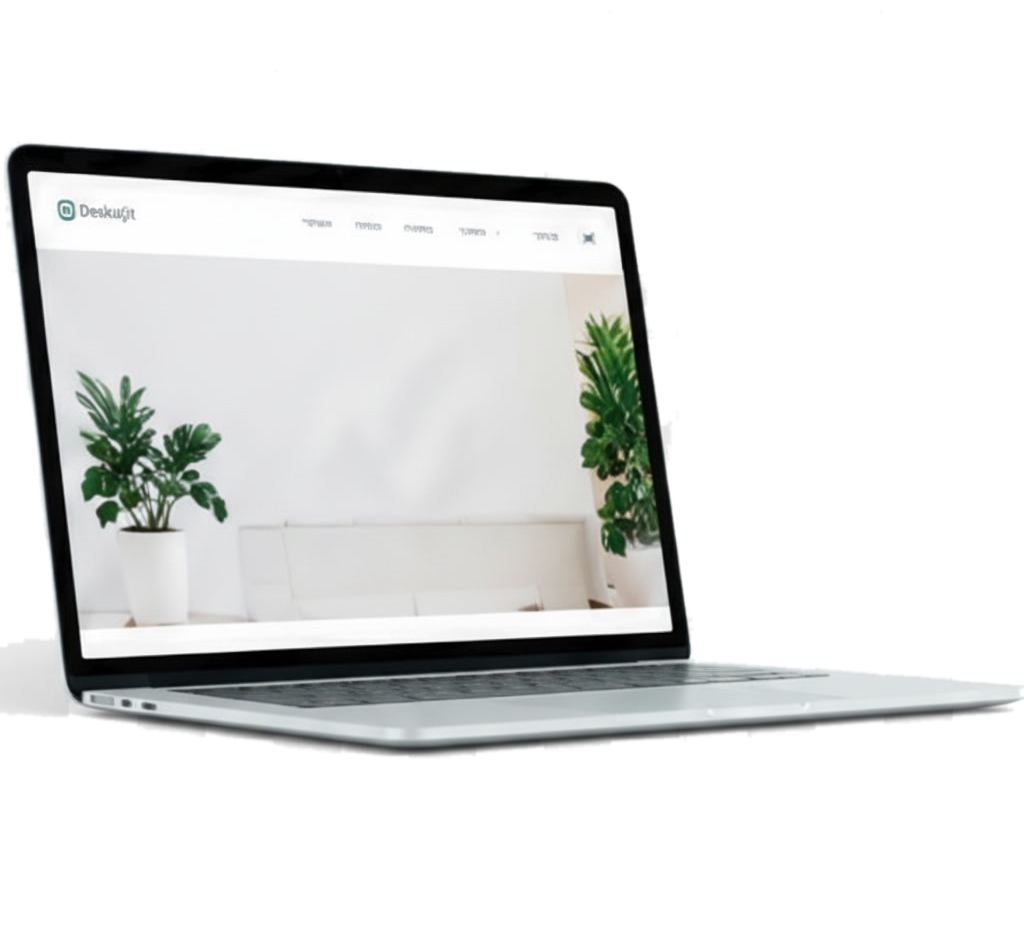
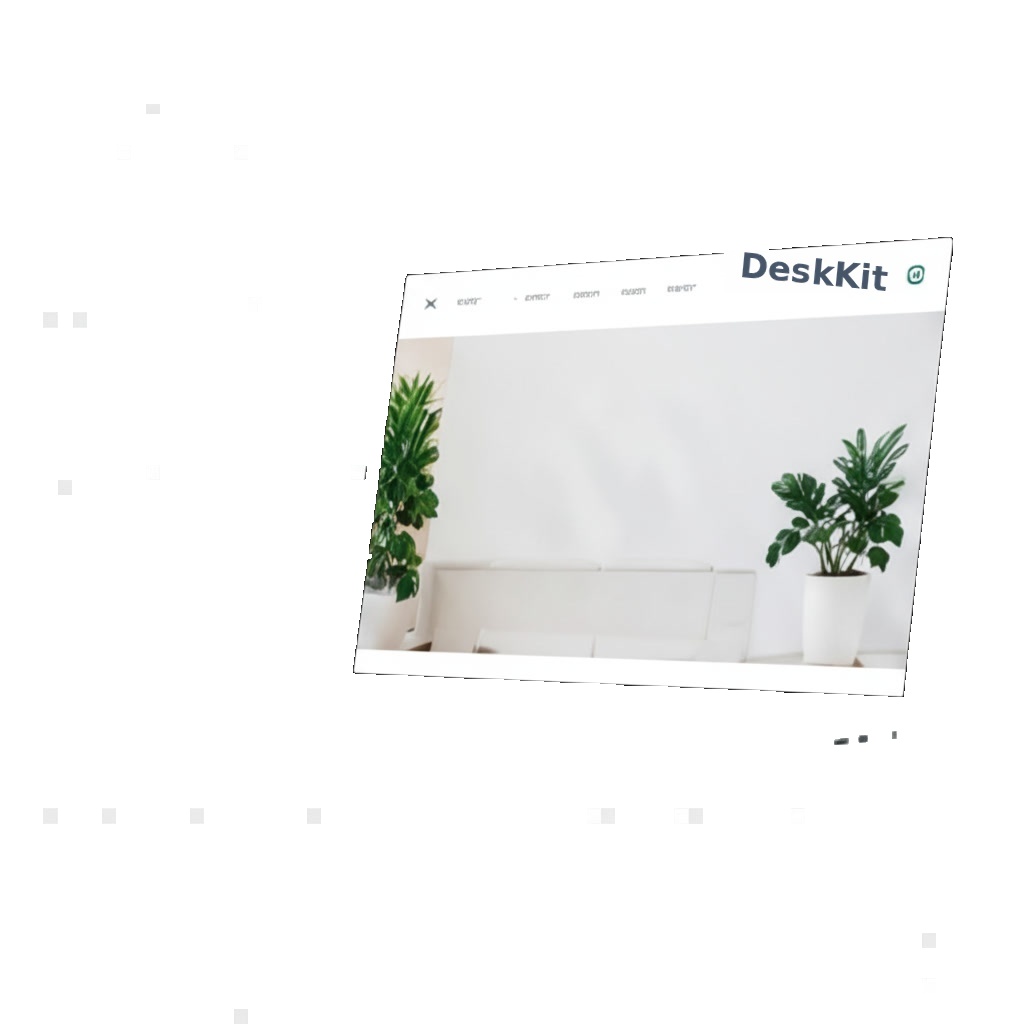
Fix hero laptop overlapping lead text; swap in corrected mockup photos
The laptop mockup in the home hero collided with the lead paragraph/CTA
at normal and narrow desktop widths (confirmed live via screenshot) —
the margin-top/shift values were hand-tuned for the old photo and never
retuned when replaced. Reset to a conservative baseline and verified
clean at 390–1920px in both languages.

Also swaps in two new mockup photos (a real mirror pair: one flipped
from the other, not independent renders) replacing the single shared
photo used for both languages before. Both the old photo and the new
supplied ones had an AI-generated logo typo baked into the screenshot
("Deskujit") — patched out and redrawn as "DeskKit" directly on the
photo pixels. Recomputed each photo's own screen-quad perspective
transform (OpenCV) for the text/CTA overlay that sits inside the glass.

Fixed a real cascade bug hit while wiring the two images: the per-
language display:none/block toggle rule sat BEFORE the shared
.dk-home-hero-laptop-img{display:block} rule, so the later rule won
(same specificity) and both images stayed visible/stacked, doubling the
hero section's height. Reordered so the toggle rule comes last.

Claude-Session: https://claude.ai/code/session_018AnmN4AoUhjrzwgf1WfAo4

diff --git a/css/deskkit-ui.css b/css/deskkit-ui.css
@@ -403,7 +403,7 @@ body.dk-home { background: var(--bg-main); }
    continuous formula covers both regimes, no separate breakpoint
    value needed (replacing the old 860px-breakpoint override below). */
 .dk-home-hero-visual {
-  width: 100%; max-width: 640px; margin-top: var(--dk-hero-margin-top, -250px); position: relative;
+  width: 100%; max-width: 640px; margin-top: var(--dk-hero-margin-top, -80px); position: relative;
   /* translateX is always a PHYSICAL shift (never direction-aware on its
      own) — confirmed-live bug this caused: toggling to English flips
      the page to dir="ltr", which also flips which physical edge this
@@ -420,53 +420,27 @@ body.dk-home { background: var(--bg-main); }
   container-type: inline-size;
 }
 /* LTR needs its own tuning, not just the RTL numbers with the sign
-   flipped — the laptop photo itself is a real photograph, not a
-   mirror-symmetric graphic, so its own opaque silhouette (the dark
-   lid/bezel) sits in a DIFFERENT place relative to the text once the
-   whole composition flips. In RTL, the horizontal shift happens to
-   carry that opaque area away from where the text sits; in LTR the
-   same shift (even sign-flipped) carried it UNDER the text instead —
-   confirmed live as the laptop visibly covering the CTA button and
-   watch-link text, not just a boxes-overlap technicality. Verified by
-   directly measuring the text block's own real height in English
-   (longer line-wrapping than Hebrew) and solving for a margin-top that
-   clears it, then increasing the horizontal cap so the image also
-   moves further past the text block's own right edge — together, not
-   either alone (checked: horizontal distance alone can't clear the
-   opaque corner within the tools-sidebar-safe shift budget, and
-   vertical clearance alone would undo nearly all of the intentional
-   "tucked under the text" composition, since this box's natural,
-   margin-top:0 position already starts flush at the text's own bottom
-   edge with zero built-in gap in EITHER direction — RTL's working
-   look was never from spare room, only from where the shift happened
-   to land on the photo). */
-/* Both --dk-hero-margin-top and --dk-hero-shift above were fixed
-   numbers (-150px / 260px) tuned only for wide desktop, where
-   --dk-hero-shift is already pinned at its cap. Confirmed-live bug this
-   caused: at in-between widths (~900-1250px, a completely normal laptop
-   screen, not a breakpoint edge case) the clamp() hasn't reached that
-   cap yet, so the horizontal shift is smaller — but the vertical pull
-   was still the full fixed -150px regardless, so the laptop's opaque
-   lid sat UNDER "Watch how it works" with no horizontal clearance to
-   carry it away. Fix: margin-top now scales down together with the
-   SAME (100cqw - 656px) term the shift itself uses, so it only reaches
-   its full -150px tuck once the shift has actually reached a cap worth
-   tucking under, and sits flush (0 overlap) at the narrow end where
-   there's no horizontal clearance yet — same formula family, kept in
-   sync by construction instead of as two numbers that can drift apart.
-   -0.559 = -190px / 340px (this rule's own cap/pull pair, below), so
-   both reach their max together at the same cqw. Cap raised again
-   (300->340px, shift further right toward the tools column) and the
-   max vertical pull raised too (-150->-190px, tucks the photo higher)
-   per repeated "move it right toward the tools buttons, raise it
-   higher, there's still room" reports — reverified at 1024-1920px
-   that this neither collides with the tools column (checked each
-   width's own gap to .dk-home-hero-tools) nor gets clipped by this
-   section's own overflow:hidden bottom edge (checked each width's own
-   image-bottom vs hero-bottom). */
+   flipped — the laptop photo itself is a real photograph (a mirror PAIR
+   of two files, not one mirror-symmetric graphic — see index.html's own
+   comment), so the two photos' opaque silhouettes sit in different
+   places relative to the text once the composition flips.
+
+   2026-10-07: both this rule and the RTL default above were reset to a
+   conservative, mostly-untucked baseline (small/no negative margin-top)
+   after a confirmed-live report that the previous hand-tuned values
+   (carried over from the OLD laptop photo, before it was replaced) made
+   the laptop visibly cover the lead paragraph text. The old photo's
+   geometry no longer applies to these new photos, so retuning from
+   scratch — a flush, slightly-overlapping-at-most start — was safer
+   than reusing a large negative pull untested against the new images.
+   If there's visibly too much empty space between the text block and
+   the laptop at a given width, increase the magnitude of
+   --dk-hero-margin-top (more negative) and re-verify there's no
+   collision with the lead paragraph/CTA at any width from ~680px to
+   ~1920px before shipping a larger pull. */
 html[dir="ltr"] .dk-home-hero-visual {
-  --dk-hero-margin-top: clamp(-280px, calc(-0.823 * (100cqw - 656px)), 0px);
-  --dk-hero-shift-cap: 380px;
+  --dk-hero-margin-top: clamp(-60px, calc(-0.2 * (100cqw - 656px)), 0px);
+  --dk-hero-shift-cap: 200px;
   transform: translateX(var(--dk-hero-shift));
 }
 .dk-home-hero-laptop-img {
@@ -480,6 +454,19 @@ html[dir="ltr"] .dk-home-hero-visual {
      <img>, not the link. */
   pointer-events: none;
 }
+/* The two mockup photos (real mirror pair, see index.html's own comment
+   on the two <img> tags) occupy the same box; CSS picks which one is in
+   flow by html[dir], the same pattern the rest of this page already
+   uses for bilingual content. Only one is ever display:block, so this
+   box's own height always comes from exactly one photo, never both
+   stacking. Placed after the shared .dk-home-hero-laptop-img rule above
+   (same specificity, source order decides) — confirmed-live bug when
+   this sat BEFORE it instead: that rule's own display:block, applying
+   to both images via their shared class, won the cascade and kept the
+   "wrong" language's photo visible too, doubling this box's height. */
+.dk-home-hero-laptop-img-ltr { display: none; }
+html[dir="ltr"] .dk-home-hero-laptop-img-ltr { display: block; }
+html[dir="ltr"] .dk-home-hero-laptop-img-rtl { display: none; }
 /* Sits inside the laptop photo's own screen glass, warped to the
    screen's real tilted plane instead of just rotated flat — a flat
    rotate() stood the text "upright" while the screen itself recedes
@@ -488,14 +475,17 @@ html[dir="ltr"] .dk-home-hero-visual {
    it. Fixed with a true perspective (homography) transform: this box
    is laid out as a normal flat 480x380 design canvas, then
    matrix3d() warps its 4 corners onto the screen's real 4 corners —
-   computed via cv2.getPerspectiveTransform from the screen quad found
-   by OpenCV contour detection on the source PNG (corners roughly
-   (26,173)/(613,206)/(672,631)/(83,659) in the 1024x946 image, shrunk
-   14% inward for bezel margin). matrix3d's translate components are
-   always real pixels in the element's own box, never %, so they're
-   only correct at the image's native 1024px width — the leading
-   scale() converts from that fixed native-pixel space down to
-   whatever size the (fully responsive) photo is actually rendered
+   computed via cv2.getPerspectiveTransform from each photo's own screen
+   quad (corners estimated directly off a pixel grid overlay, shrunk 14%
+   inward for bezel margin: RTL/images/laptop-hero.png roughly
+   (409,248)/(956,222)/(931,668)/(339,685), LTR/images/laptop-hero-en.png
+   roughly (68,222)/(615,248)/(685,685)/(93,668), both in the 1024x1024
+   source — the two photos are a real mirror pair, not the same quad
+   mirrored in CSS, so each gets its own matrix3d below). matrix3d's
+   translate components are always real pixels in the element's own box,
+   never %, so they're only correct at the image's native 1024px width —
+   the leading scale() converts from that fixed native-pixel space down
+   to whatever size the (fully responsive) photo is actually rendered
    at, via `100cqw` (container query width = this element's own
    current rendered width, see container-type:inline-size on
    .dk-home-hero-visual above) divided by 1024px, which is a plain
@@ -504,14 +494,24 @@ html[dir="ltr"] .dk-home-hero-visual {
 .dk-home-hero-screen-overlay {
   position: absolute; top: 0; left: 0; width: 480px; height: 380px;
   transform-origin: 0 0;
+  /* RTL default — images/laptop-hero.png's own screen quad. */
   transform: scale(calc(100cqw / 1024px)) matrix3d(
-    1.222539, 0.128996, 0, 0.000297,
-    0.123416, 1.070847, 0, -0.000046,
+    0.936011, -0.058849, 0, -0.000048,
+    -0.236173, 0.856719, 0, -0.000203,
     0, 0, 1, 0,
-    71.150002, 207.195007, 0, 1
+    443.964996, 277.084991, 0, 1
   );
   display: flex; flex-direction: column; align-items: center; justify-content: center; gap: 18px;
   text-align: center;
+}
+html[dir="ltr"] .dk-home-hero-screen-overlay {
+  /* images/laptop-hero-en.png's own screen quad. */
+  transform: scale(calc(100cqw / 1024px)) matrix3d(
+    1.008633, 0.060242, 0, 0.000049,
+    0.029386, 0.876989, 0, -0.000207,
+    0, 0, 1, 0,
+    109.614998, 254.725006, 0, 1
+  );
 }
 .dk-home-hero-screen-overlay p {
   margin: 0; font-weight: 800; line-height: 1.22; color: var(--text-main, #0F172A);

diff --git a/index.html b/index.html
@@ -78,7 +78,7 @@
 <link href="https://fonts.googleapis.com/css2?family=Heebo:wght@400;500;600;700&family=Assistant:wght@400;500;600;700;800&family=Secular+One&family=Space+Grotesk:wght@500;600;700&display=optional" rel="stylesheet" media="print" onload="this.media='all'">
 <noscript><link href="https://fonts.googleapis.com/css2?family=Heebo:wght@400;500;600;700&family=Assistant:wght@400;500;600;700;800&family=Secular+One&family=Space+Grotesk:wght@500;600;700&display=optional" rel="stylesheet"></noscript>
 <link rel="stylesheet" href="css/style.css?v=99">
-<link rel="stylesheet" href="css/deskkit-ui.css?v=40">
+<link rel="stylesheet" href="css/deskkit-ui.css?v=41">
 </head>
 <body class="dk-home dk-has-app-sidebar">
 <header class="site">
@@ -131,25 +131,31 @@
         <a href="#how" class="dk-home-hero-watch"><span class="dk-home-hero-play">▶</span><span data-i18n="hero_watch">צפו איך זה עובד</span></a>
       </div>
       <div class="dk-home-hero-visual">
-        <!-- The real laptop photo the user supplied (images/laptop-
-             hero.png), cut out to a transparent PNG — its own studio
-             backdrop (a faint checkerboard baked into the flattened
-             JPEG, confirmed via direct pixel sampling) was removed
-             with a connected-component flood-fill from the image
-             border, so only genuinely background pixels are cut,
-             never the laptop's own light aluminum base. -->
-        <img src="images/laptop-hero.png" alt="" class="dk-home-hero-laptop-img" aria-hidden="true">
+        <!-- Two laptop mockup photos, cut out to transparent PNGs — a
+             true mirror pair (the LTR photo flipped horizontally, not a
+             second independent render), so both languages get the same
+             composition instead of two photos that happen to look
+             similar. The original AI-generated mockup had its own baked-
+             in logo text misspelled ("Deskujit") in both orientations —
+             confirmed via direct pixel inspection — patched out and
+             redrawn as "DeskKit" directly on the photo (small, mostly-
+             decorative detail; not worth a second AI generation pass).
+             CSS (html[dir]) swaps which one is visible instead of JS,
+             consistent with the rest of this page's bilingual pattern. -->
+        <img src="images/laptop-hero.png" alt="" class="dk-home-hero-laptop-img dk-home-hero-laptop-img-rtl" aria-hidden="true">
+        <img src="images/laptop-hero-en.png" alt="" class="dk-home-hero-laptop-img dk-home-hero-laptop-img-ltr" aria-hidden="true">
         <!-- The screen's own content (photo + nav baked into the PNG)
              had no text at all, reading as an empty laptop rather than
              DeskKit's own product — confirmed live. Positioned/rotated
              in CSS (not baked into the photo) so it stays real,
              selectable, translatable text instead of another flattened
              raster layer. The percentages + rotation are measured
-             directly off the photo's own screen quad (detected via
-             OpenCV contour analysis of the bezel's inner edge: corners
-             at roughly (26,173)/(613,206)/(672,631)/(83,659) in the
-             1024x946 source) — not a generic center overlay, so it
-             sits inside the actual screen glass, tilted to match. */ -->
+             directly off each photo's own screen quad (OpenCV contour
+             analysis of the bezel's inner edge) — not a generic center
+             overlay, so it sits inside the actual screen glass, tilted
+             to match. Two separate matrix3d values (RTL base rule +
+             html[dir="ltr"] override below) since the two photos are a
+             mirror pair, not the same quad. -->
         <div class="dk-home-hero-screen-overlay">
           <p data-i18n="hero_screen_text">הופכים רעיונות לפרויקטים</p>
           <a href="sites.html" class="dk-home-hero-screen-cta" data-i18n="hero_screen_cta">התחילו עכשיו ←</a>

diff --git a/builder.html b/builder.html
@@ -34,7 +34,7 @@
 <link rel="preconnect" href="https://fonts.gstatic.com" crossorigin>
 <link href="https://fonts.googleapis.com/css2?family=Heebo:wght@400;500;600;700&family=Assistant:wght@400;500;600;700&family=Rubik:wght@400;500;600;700&family=Frank+Ruhl+Libre:wght@400;500;700&family=Noto+Serif+Hebrew:wght@400;500;600;700&family=David+Libre:wght@400;500;600;700&family=Space+Grotesk:wght@500;600;700&display=swap" rel="stylesheet">
 <link rel="stylesheet" href="css/style.css?v=99">
-<link rel="stylesheet" href="css/deskkit-ui.css?v=40">
+<link rel="stylesheet" href="css/deskkit-ui.css?v=41">
 <link rel="stylesheet" href="css/builder.css?v=22">
 <link rel="stylesheet" href="css/builder-shell.css?v=11">
 </head>

diff --git a/account-settings.html b/account-settings.html
@@ -12,7 +12,7 @@
 <link rel="preconnect" href="https://fonts.gstatic.com" crossorigin>
 <link href="https://fonts.googleapis.com/css2?family=Heebo:wght@400;500;600;700&family=Rubik:wght@500;600;700;900&family=Space+Grotesk:wght@500;600;700&display=swap" rel="stylesheet">
 <link rel="stylesheet" href="css/style.css?v=99">
-<link rel="stylesheet" href="css/deskkit-ui.css?v=40">
+<link rel="stylesheet" href="css/deskkit-ui.css?v=41">
 <link rel="stylesheet" href="css/builder.css?v=22">
 <style>
   .as-section { max-width: 480px; margin: 0 auto 40px; padding: 28px; background: var(--white); border: 1px solid #EAEDEC; border-radius: var(--radius); box-shadow: var(--shadow); }

diff --git a/quote-app.html b/quote-app.html
@@ -32,7 +32,7 @@
 <link rel="preconnect" href="https://fonts.gstatic.com" crossorigin>
 <link href="https://fonts.googleapis.com/css2?family=Heebo:wght@300;400;500;600;700&family=Rubik:wght@500;600;700;900&family=Frank+Ruhl+Libre:wght@400;500;700&family=Space+Grotesk:wght@500;600;700&display=swap" rel="stylesheet">
 <link rel="stylesheet" href="css/style.css?v=99">
-<link rel="stylesheet" href="css/deskkit-ui.css?v=40">
+<link rel="stylesheet" href="css/deskkit-ui.css?v=41">
 <link rel="stylesheet" href="css/builder.css?v=22">
 <link rel="stylesheet" href="css/builder-shell.css?v=11">
 <style>

diff --git a/account.html b/account.html
@@ -25,7 +25,7 @@
 <link rel="preconnect" href="https://fonts.gstatic.com" crossorigin>
 <link href="https://fonts.googleapis.com/css2?family=Heebo:wght@400;500;600;700&family=Rubik:wght@500;600;700;900&family=Space+Grotesk:wght@500;600;700&display=swap" rel="stylesheet">
 <link rel="stylesheet" href="css/style.css?v=99">
-<link rel="stylesheet" href="css/deskkit-ui.css?v=40">
+<link rel="stylesheet" href="css/deskkit-ui.css?v=41">
 <style>
   .qa-gate-wrap { min-height: 70vh; display: flex; align-items: center; justify-content: center; padding: 40px 24px; }
   .qa-gate-box {

diff --git a/invoice-app.html b/invoice-app.html
@@ -32,7 +32,7 @@
 <link rel="preconnect" href="https://fonts.gstatic.com" crossorigin>
 <link href="https://fonts.googleapis.com/css2?family=Heebo:wght@300;400;500;600;700&family=Rubik:wght@500;600;700;900&family=Space+Grotesk:wght@500;600;700&display=swap" rel="stylesheet">
 <link rel="stylesheet" href="css/style.css?v=99">
-<link rel="stylesheet" href="css/deskkit-ui.css?v=40">
+<link rel="stylesheet" href="css/deskkit-ui.css?v=41">
 <link rel="stylesheet" href="css/builder.css?v=22">
 <link rel="stylesheet" href="css/builder-shell.css?v=11">
 <style>

diff --git a/projects.html b/projects.html
@@ -26,7 +26,7 @@
 <link rel="preconnect" href="https://fonts.gstatic.com" crossorigin>
 <link href="https://fonts.googleapis.com/css2?family=Heebo:wght@400;500;600;700&family=Rubik:wght@500;600;700;900&family=Space+Grotesk:wght@500;600;700&display=swap" rel="stylesheet">
 <link rel="stylesheet" href="css/style.css?v=99">
-<link rel="stylesheet" href="css/deskkit-ui.css?v=40">
+<link rel="stylesheet" href="css/deskkit-ui.css?v=41">
 </head>
 <body class="dk-has-app-sidebar">
 <div id="dk-projects-overlay" class="auth-gate-overlay" style="display:flex;">

diff --git a/schedule-builder.html b/schedule-builder.html
@@ -29,7 +29,7 @@
 <link rel="preconnect" href="https://fonts.gstatic.com" crossorigin>
 <link href="https://fonts.googleapis.com/css2?family=Heebo:wght@400;500;600;700&family=Rubik:wght@500;600;700;900&family=Space+Grotesk:wght@500;600;700&display=swap" rel="stylesheet">
 <link rel="stylesheet" href="css/style.css?v=99">
-<link rel="stylesheet" href="css/deskkit-ui.css?v=40">
+<link rel="stylesheet" href="css/deskkit-ui.css?v=41">
 <link rel="stylesheet" href="css/builder.css?v=22">
 <link rel="stylesheet" href="css/schedule.css?v=2">
 </head>

diff --git a/tools.html b/tools.html
@@ -26,7 +26,7 @@
 <link rel="preconnect" href="https://fonts.gstatic.com" crossorigin>
 <link href="https://fonts.googleapis.com/css2?family=Heebo:wght@400;500;600;700&family=Rubik:wght@500;600;700;900&family=Space+Grotesk:wght@500;600;700&display=swap" rel="stylesheet">
 <link rel="stylesheet" href="css/style.css?v=99">
-<link rel="stylesheet" href="css/deskkit-ui.css?v=40">
+<link rel="stylesheet" href="css/deskkit-ui.css?v=41">
 <style>
   .tool-card { position: relative; }
   .tool-card .btn-mini { margin-top: 14px; }

diff --git a/sites.html b/sites.html
@@ -31,7 +31,7 @@
 <link rel="stylesheet" href="css/style.css?v=99">
 <link rel="stylesheet" href="css/builder.css?v=22">
 <link rel="stylesheet" href="css/builder-shell.css?v=11">
-<link rel="stylesheet" href="css/deskkit-ui.css?v=40">
+<link rel="stylesheet" href="css/deskkit-ui.css?v=41">
 <style>
   .services-item { border: 1px solid #EDEFEE; border-radius: 8px; padding: 12px; margin-bottom: 12px; display: grid; gap: 8px; }
   .services-item-head { display: flex; justify-content: space-between; align-items: center; }

diff --git a/faq.html b/faq.html
@@ -26,7 +26,7 @@
 <link rel="preconnect" href="https://fonts.gstatic.com" crossorigin>
 <link href="https://fonts.googleapis.com/css2?family=Heebo:wght@400;500;600;700&family=Rubik:wght@500;600;700;900&family=Space+Grotesk:wght@500;600;700&display=swap" rel="stylesheet">
 <link rel="stylesheet" href="css/style.css?v=99">
-<link rel="stylesheet" href="css/deskkit-ui.css?v=40">
+<link rel="stylesheet" href="css/deskkit-ui.css?v=41">
 <script type="application/ld+json">
 {
   "@context": "https://schema.org",
